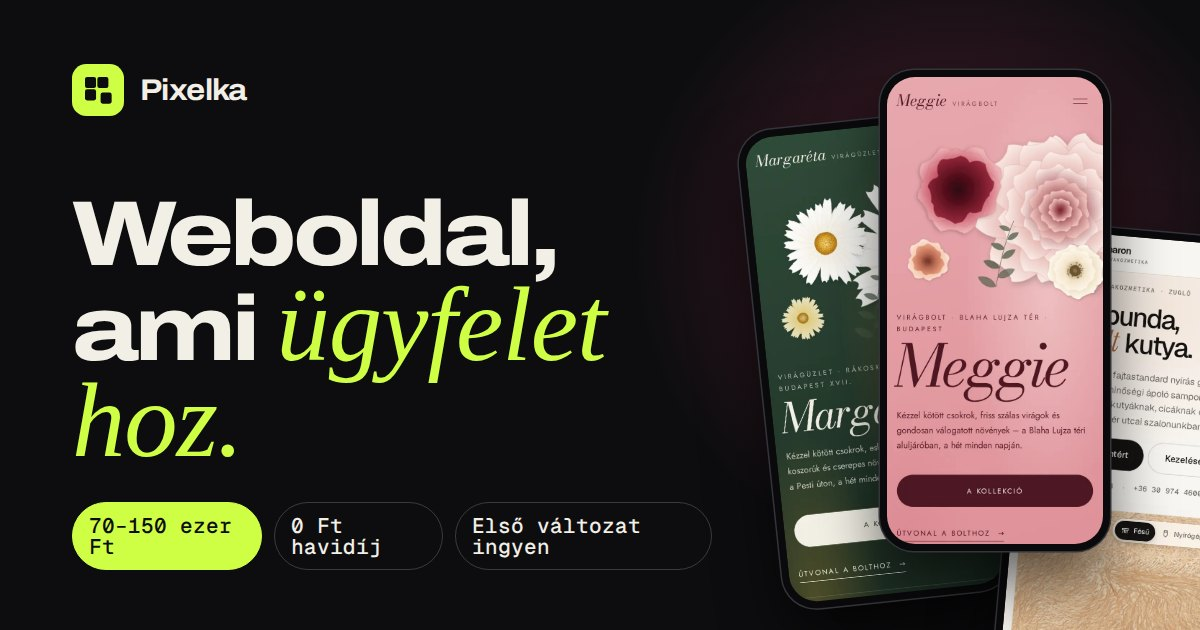
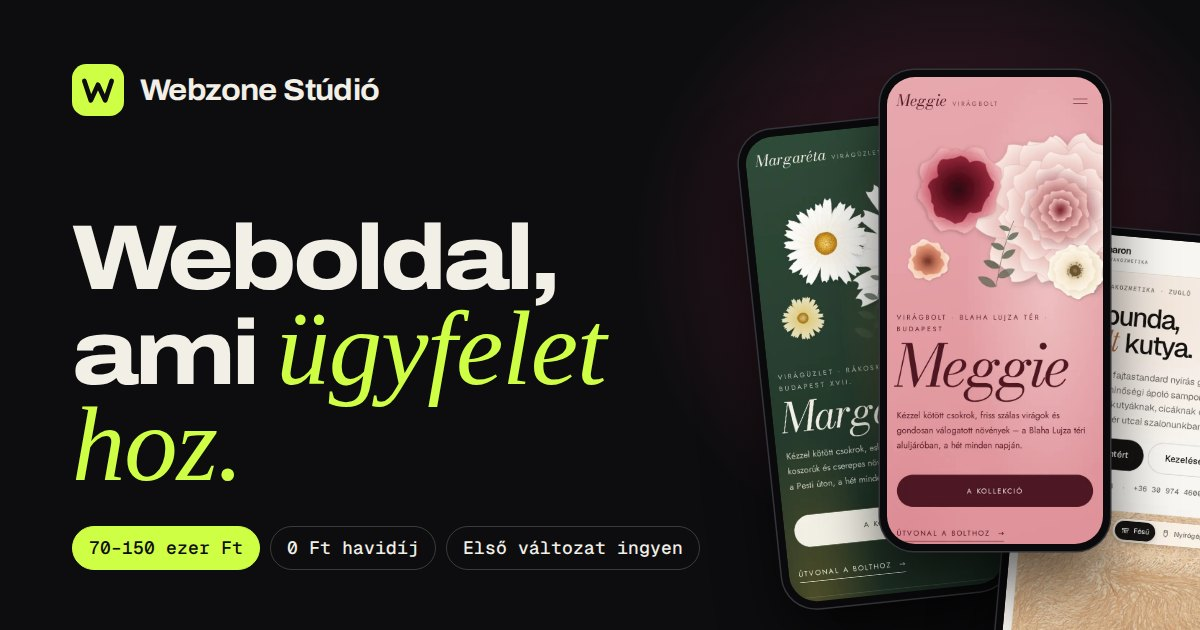
Új név: Webzone Stúdió (röviden Webzo)
- Név a fejlécben, menüben, láblécben, böngészőfülön, 404-oldalon,
  megosztási képen és a keresőknek szóló adatokban (alternateName: Webzo)
- A nagy lábléc-felirat és a domain a rövid változat: Webzo, webzo.hu
- Új logó: lime négyzetben vonalas „W”
- Megosztási kép: a címkék nem törnek két sorba

Claude-Session: https://claude.ai/code/session_01Gbe1suwyLoMRFVf5tUWnxh

Changed region(s): [[0.0617, 0.3016, 0.5858, 0.9048], [0.0617, 0.1206, 0.3392, 0.181]]

diff --git a/public/index.html b/public/index.html
@@ -3,35 +3,36 @@
 <head>
   <meta charset="utf-8">
   <meta name="viewport" content="width=device-width, initial-scale=1, viewport-fit=cover">
-  <title>Pixelka – Egyedi weboldal kisvállalkozásoknak, 70 000 Ft-tól</title>
+  <title>Webzone Stúdió – Egyedi weboldal kisvállalkozásoknak, 70 000 Ft-tól</title>
   <meta name="description" content="Egyedi tervezésű, telefonra szabott weboldalak kisvállalkozásoknak. Fix ár 70 000 és 150 000 Ft között, havidíj nélkül.">
   <meta name="theme-color" content="#0d0d0f">
   <meta name="color-scheme" content="dark">
-  <link rel="canonical" href="https://pixelka.hu/">
+  <link rel="canonical" href="https://webzo.hu/">
   <meta property="og:type" content="website">
   <meta property="og:locale" content="hu_HU">
-  <meta property="og:title" content="Weboldal, ami ügyfelet hoz – Pixelka">
+  <meta property="og:title" content="Weboldal, ami ügyfelet hoz – Webzone Stúdió">
   <meta property="og:description" content="Egyedi weboldal kisvállalkozásoknak. Fix ár 70–150 ezer Ft, nincs havidíj.">
-  <meta property="og:image" content="https://pixelka.hu/assets/og.jpg">
+  <meta property="og:image" content="https://webzo.hu/assets/og.jpg">
   <meta property="og:image:width" content="1200">
   <meta property="og:image:height" content="630">
-  <meta property="og:image:alt" content="Pixelka – Weboldal, ami ügyfelet hoz">
-  <meta property="og:url" content="https://pixelka.hu/">
+  <meta property="og:image:alt" content="Webzone Stúdió – Weboldal, ami ügyfelet hoz">
+  <meta property="og:url" content="https://webzo.hu/">
   <meta name="twitter:card" content="summary_large_image">
   <link rel="icon" href="/assets/favicon.svg" type="image/svg+xml">
   <link rel="apple-touch-icon" href="/assets/apple-touch-icon.png">
   <link rel="preload" href="/assets/fonts/archivo-latin-wdth-normal.woff2" as="font" type="font/woff2" crossorigin>
   <link rel="preload" href="/assets/fonts/geist-latin-wght-normal.woff2" as="font" type="font/woff2" crossorigin>
   <link rel="preload" href="/assets/work/meggie-mobile.webp" as="image" type="image/webp">
-  <link rel="stylesheet" href="/styles.css?v=4">
+  <link rel="stylesheet" href="/styles.css?v=5">
   <script type="application/ld+json">
   {
     "@context": "https://schema.org",
     "@type": "ProfessionalService",
-    "name": "Pixelka",
+    "name": "Webzone Stúdió",
+    "alternateName": "Webzo",
     "description": "Egyedi tervezésű, telefonra szabott weboldalak kisvállalkozásoknak, fix áron.",
-    "url": "https://pixelka.hu/",
-    "image": "https://pixelka.hu/assets/og.jpg",
+    "url": "https://webzo.hu/",
+    "image": "https://webzo.hu/assets/og.jpg",
     "email": "siposhunor1112@gmail.com",
     "priceRange": "70 000 – 150 000 Ft",
     "areaServed": { "@type": "Country", "name": "Magyarország" },
@@ -50,9 +51,9 @@
   <!-- ============ Fejléc ============ -->
   <header class="top" id="top">
     <div class="wrap top__inner">
-      <a class="logo" href="#" aria-label="Pixelka – az oldal teteje">
+      <a class="logo" href="#" aria-label="Webzone Stúdió – az oldal teteje">
         <svg class="logo__mark" aria-hidden="true"><use href="#mark"/></svg>
-        <span class="logo__word">Pixelka<span class="logo__sub">webkészítés</span></span>
+        <span class="logo__word">Webzone Stúdió<span class="logo__sub">webkészítés</span></span>
       </a>
       <nav class="nav" aria-label="Fő menü">
         <a href="#munkak">Munkák</a>
@@ -536,7 +537,7 @@
           </li>
         </ol>
         <div class="promise">
-          <svg class="promise__mark" viewBox="0 0 40 40" aria-hidden="true"><rect width="40" height="40" rx="11" fill="#0d0d0f"/><rect x="10" y="10" width="8.5" height="8.5" rx="1.6" fill="#cfff45"/><rect x="19.5" y="10" width="8.5" height="8.5" rx="1.6" fill="#cfff45"/><rect x="10" y="19.5" width="8.5" height="8.5" rx="1.6" fill="#cfff45"/><rect x="22" y="22" width="8.5" height="8.5" rx="1.6" fill="#cfff45"/></svg>
+          <svg class="promise__mark" viewBox="0 0 40 40" aria-hidden="true"><rect width="40" height="40" rx="11" fill="#0d0d0f"/><path d="M9.5 13l5 15 5.5-12 5.5 12 5-15" fill="none" stroke="#cfff45" stroke-width="3.6" stroke-linecap="round" stroke-linejoin="round"/></svg>
           <p><strong>Kockázatmentes kezdés:</strong> az első változatot díjmentesen elkészítem. Ha nem tetszik, nem tartozik semmivel.</p>
         </div>
       </div>
@@ -655,15 +656,15 @@
       <div class="foot__row">
         <a class="logo" href="#top">
           <svg class="logo__mark" aria-hidden="true"><use href="#mark"/></svg>
-          <span class="logo__word">Pixelka<span class="logo__sub">webkészítés</span></span>
+          <span class="logo__word">Webzone Stúdió<span class="logo__sub">webkészítés</span></span>
         </a>
         <nav class="foot__nav" aria-label="Lábléc menü">
           <a href="#munkak">Munkák</a><a href="#arak">Árak</a><a href="#folyamat">Folyamat</a><a href="#kerdesek">Kérdések</a><a href="#kapcsolat">Kapcsolat</a>
         </nav>
       </div>
-      <p class="foot__giant" aria-hidden="true">Pixelka</p>
+      <p class="foot__giant" aria-hidden="true">Webzo</p>
       <div class="foot__row foot__small">
-        <p>© <span data-year>2026</span> Pixelka · Webkészítés, Budapest</p>
+        <p>© <span data-year>2026</span> Webzone Stúdió · Webkészítés, Budapest</p>
         <p>Követőkódok és sütik nélkül.</p>
       </div>
       <!-- Impresszum: a script.js LEGAL részéből töltődik ki; amíg nincs kitöltve, nem jelenik meg -->
@@ -720,7 +721,7 @@
 
   <!-- Ikonok -->
   <svg width="0" height="0" style="position:absolute" aria-hidden="true">
-    <symbol id="mark" viewBox="0 0 40 40"><rect width="40" height="40" rx="11" fill="#cfff45"/><rect x="10" y="10" width="8.5" height="8.5" rx="1.6" fill="#0d0d0f"/><rect x="19.5" y="10" width="8.5" height="8.5" rx="1.6" fill="#0d0d0f"/><rect x="10" y="19.5" width="8.5" height="8.5" rx="1.6" fill="#0d0d0f"/><rect x="22" y="22" width="8.5" height="8.5" rx="1.6" fill="#0d0d0f"/></symbol>
+    <symbol id="mark" viewBox="0 0 40 40"><rect width="40" height="40" rx="11" fill="#cfff45"/><path d="M9.5 13l5 15 5.5-12 5.5 12 5-15" fill="none" stroke="#0d0d0f" stroke-width="3.6" stroke-linecap="round" stroke-linejoin="round"/></symbol>
     <symbol id="arrow" viewBox="0 0 24 24"><path d="M5 12h14M13 6l6 6-6 6" fill="none" stroke="currentColor" stroke-width="2" stroke-linecap="round" stroke-linejoin="round"/></symbol>
     <symbol id="pause" viewBox="0 0 24 24"><path d="M9 6v12M15 6v12" fill="none" stroke="currentColor" stroke-width="2.2" stroke-linecap="round"/></symbol>
     <symbol id="play" viewBox="0 0 24 24"><path d="M8 5.5v13l10.5-6.5z" fill="currentColor"/></symbol>
@@ -739,6 +740,6 @@
     <symbol id="i-key" viewBox="0 0 24 24"><g fill="none" stroke="currentColor" stroke-width="1.5" stroke-linecap="round"><circle cx="8" cy="15" r="4.5"/><path d="M11.2 11.8L20 3M16.5 6.5l2.5 2.5M14 9l2 2"/></g></symbol>
   </svg>
 
-  <script src="/script.js?v=4" defer></script>
+  <script src="/script.js?v=5" defer></script>
 </body>
 </html>

diff --git a/tools/images.js b/tools/images.js
@@ -21,7 +21,7 @@ const base = `
   html, body { width: 100%; height: 100%; }
   body { background: #0d0d0f; color: #f2efe7; overflow: hidden; position: relative; font-family: Display; }
 `;
-const mark = (bg, fg) => `<svg viewBox="0 0 40 40"><rect width="40" height="40" rx="11" fill="${bg}"/><rect x="10" y="10" width="8.5" height="8.5" rx="1.6" fill="${fg}"/><rect x="19.5" y="10" width="8.5" height="8.5" rx="1.6" fill="${fg}"/><rect x="10" y="19.5" width="8.5" height="8.5" rx="1.6" fill="${fg}"/><rect x="22" y="22" width="8.5" height="8.5" rx="1.6" fill="${fg}"/></svg>`;
+const mark = (bg, fg) => `<svg viewBox="0 0 40 40"><rect width="40" height="40" rx="11" fill="${bg}"/><path d="M9.5 13l5 15 5.5-12 5.5 12 5-15" fill="none" stroke="${fg}" stroke-width="3.6" stroke-linecap="round" stroke-linejoin="round"/></svg>`;
 
 const phone = (img, x, y, r) => `<div class="ph" style="left:${x}px;top:${y}px;transform:rotate(${r}deg)"><div><img src="${shot(img)}"></div></div>`;
 const og = `<style>${base}
@@ -31,7 +31,7 @@ const og = `<style>${base}
   .top svg { width: 52px; height: 52px; }
   h1 { margin-top: auto; font-weight: 780; font-stretch: 118%; font-size: 92px; line-height: .9; letter-spacing: -.045em; }
   h1 em { font-family: Serif; font-style: italic; font-weight: 400; font-stretch: 100%; font-size: 1.16em; letter-spacing: -.01em; color: #cfff45; }
-  .bottom { margin-top: 34px; display: flex; gap: 12px; font: 500 21px/1 Mono; }
+  .bottom { margin-top: 34px; display: flex; gap: 10px; font: 500 18px/1 Mono; white-space: nowrap; }
   .bottom span { padding: 12px 16px; border-radius: 999px; border: 1px solid rgba(242,239,231,.2); }
   .bottom span:first-child { background: #cfff45; color: #0d0d0f; border-color: #cfff45; }
   .ph { position: absolute; width: 230px; padding: 7px; border-radius: 34px; background: #0a0a0c; box-shadow: 0 0 0 1.5px #34343b, 0 30px 60px rgba(0,0,0,.6); }
@@ -43,13 +43,13 @@ ${phone("margareta-mobile.webp", 760, 120, -6)}
 ${phone("molly-mobile.webp", 1010, 230, 5)}
 ${phone("meggie-mobile.webp", 880, 70, 0)}
 <div class="wrap">
-  <div class="top">${mark("#cfff45", "#0d0d0f")}Pixelka</div>
+  <div class="top">${mark("#cfff45", "#0d0d0f")}Webzone Stúdió</div>
   <h1>Weboldal, ami <em>ügyfelet hoz.</em></h1>
   <div class="bottom"><span>70–150 ezer Ft</span><span>0 Ft havidíj</span><span>Első változat ingyen</span></div>
 </div>`;
 
 const icon = `<style>${base} body { background: #cfff45; display: grid; place-items: center; } svg { width: 100%; height: 100%; }</style>
-<svg viewBox="0 0 40 40"><rect width="40" height="40" fill="#cfff45"/><rect x="10" y="10" width="8.5" height="8.5" rx="1.6" fill="#0d0d0f"/><rect x="19.5" y="10" width="8.5" height="8.5" rx="1.6" fill="#0d0d0f"/><rect x="10" y="19.5" width="8.5" height="8.5" rx="1.6" fill="#0d0d0f"/><rect x="22" y="22" width="8.5" height="8.5" rx="1.6" fill="#0d0d0f"/></svg>`;
+<svg viewBox="0 0 40 40"><rect width="40" height="40" fill="#cfff45"/><path d="M9.5 13l5 15 5.5-12 5.5 12 5-15" fill="none" stroke="#0d0d0f" stroke-width="3.6" stroke-linecap="round" stroke-linejoin="round"/></svg>`;
 
 (async () => {
   const browser = await chromium.launch();

diff --git a/public/404.html b/public/404.html
@@ -3,17 +3,17 @@
 <head>
   <meta charset="utf-8">
   <meta name="viewport" content="width=device-width, initial-scale=1, viewport-fit=cover">
-  <title>Nincs ilyen oldal – Pixelka</title>
+  <title>Nincs ilyen oldal – Webzone Stúdió</title>
   <meta name="robots" content="noindex">
   <meta name="theme-color" content="#0d0d0f">
   <link rel="icon" href="/assets/favicon.svg" type="image/svg+xml">
-  <link rel="stylesheet" href="/styles.css?v=4">
+  <link rel="stylesheet" href="/styles.css?v=5">
 </head>
 <body class="notfound">
   <main class="wrap notfound__inner">
     <a class="logo" href="/">
-      <svg class="logo__mark" viewBox="0 0 40 40" aria-hidden="true"><rect width="40" height="40" rx="11" fill="#cfff45"/><rect x="10" y="10" width="8.5" height="8.5" rx="1.6" fill="#0d0d0f"/><rect x="19.5" y="10" width="8.5" height="8.5" rx="1.6" fill="#0d0d0f"/><rect x="10" y="19.5" width="8.5" height="8.5" rx="1.6" fill="#0d0d0f"/><rect x="22" y="22" width="8.5" height="8.5" rx="1.6" fill="#0d0d0f"/></svg>
-      <span class="logo__word">Pixelka<span class="logo__sub">webkészítés</span></span>
+      <svg class="logo__mark" viewBox="0 0 40 40" aria-hidden="true"><rect width="40" height="40" rx="11" fill="#cfff45"/><path d="M9.5 13l5 15 5.5-12 5.5 12 5-15" fill="none" stroke="#0d0d0f" stroke-width="3.6" stroke-linecap="round" stroke-linejoin="round"/></svg>
+      <span class="logo__word">Webzone Stúdió<span class="logo__sub">webkészítés</span></span>
     </a>
     <p class="notfound__code" aria-hidden="true">404</p>
     <h1 class="h2">Ez az oldal <em>még nem készült el.</em></h1>

diff --git a/public/script.js b/public/script.js
@@ -1,11 +1,11 @@
 // =========================================================================
-// Pixelka – webkészítés
+// Webzone Stúdió (Webzo) – webkészítés
 // Itt az elérhetőségek (SITE), a csomagok (PRESETS) és az oldal minden mozgása.
 // A munkák adatai az index.html-ben vannak (<article class="card">), innen olvassuk ki őket.
 // =========================================================================
 
 const SITE = {
-  name: "Pixelka",
+  name: "Webzone Stúdió",
   email: "siposhunor1112@gmail.com",
   phone: null,                 // pl. "+36 30 123 4567" – ha megadja, megjelenik a Hívás gomb is
   status: "Most is vállalok új munkát", // a nyitókép fölötti zöld pöttyös felirat; null = elrejti
@@ -14,7 +14,7 @@ const SITE = {
 // Impresszum (a magyar jogszabályok szerint kötelező) – töltse ki, és megjelenik a láblécben.
 // Amíg a "name" üres, az impresszum nem látszik.
 const LEGAL = {
-  name: "",            // pl. "Pixelka – Minta Péter egyéni vállalkozó" vagy a cég neve
+  name: "",            // pl. "Webzone Stúdió – Minta Péter egyéni vállalkozó" vagy a cég neve
   address: "",         // székhely
   taxNumber: "",       // adószám
   registry: "",        // nyilvántartási szám / cégjegyzékszám

diff --git a/public/styles.css b/public/styles.css
@@ -1,5 +1,5 @@
 /* =========================================================================
-   Pixelka – webkészítés
+   Webzone Stúdió (Webzo) – webkészítés
    Színek, betűk, méretek: a :root részben. Minden más ebből számol.
    ========================================================================= */
 

diff --git a/README.md b/README.md
@@ -1,4 +1,4 @@
-# Pixelka – webkészítés (saját weboldal)
+# Webzone Stúdió (Webzo) – webkészítés (saját weboldal)
 
 Egyoldalas bemutatkozó és értékesítő oldal: egyedi weboldalak kisvállalkozásoknak, fix áron (70 000 – 150 000 Ft).
 Nincs szükség build lépésre: a `public/` mappa bármilyen statikus tárhelyen kiszolgálható (Cloudflare Workers, Netlify, GitHub Pages) –
@@ -7,14 +7,14 @@ ugyanúgy, mint az ügyféloldalak.
 ## ⚠ Élesítés előtt – ezeket nézd át
 
 1. **E-mail cím** – az oldalon most a `siposhunor1112@gmail.com` szerepel, ami a nevedet tartalmazza. Ha megvan a domain,
-   érdemes egy céges címet létrehozni (pl. `hello@pixelka.hu`), és átírni a `public/script.js` `SITE.email` sorában,
+   érdemes egy céges címet létrehozni (pl. `hello@webzo.hu`), és átírni a `public/script.js` `SITE.email` sorában,
    az `index.html`-ben (Kapcsolat, `application/ld+json`) is.
 2. **Impresszum** – a magyar jogszabályok szerint egy szolgáltatást kínáló weboldalon kötelező (szolgáltató neve, székhely,
    adószám, nyilvántartási szám, elérhetőség, tárhelyszolgáltató). Töltsd ki a `public/script.js` `LEGAL` részét: amint a
    `name` nem üres, a láblécben megjelenik egy lenyitható „Impresszum”. A tárhelyszolgáltató (Cloudflare) adatai már benne vannak.
 3. **Telefonszám** – `public/script.js`, `SITE.phone` (most `null`, ezért nem látszik). Kisvállalkozók szívesebben telefonálnak:
    ha megadod, megjelenik a Kapcsolatnál és telefonon az alsó sávban is (Hívás gomb).
-4. **Domain** – az oldal a `https://pixelka.hu/` címet feltételezi (foglald le a domain.hu-n, ha még szabad). Ha más lesz, írd át itt:
+4. **Domain** – az oldal a `https://webzo.hu/` címet feltételezi (foglald le a domain.hu-n, ha még szabad; másik lehetőség: webzonestudio.hu). Ha más lesz, írd át itt:
    `public/index.html` (`og:image`, `og:url`, `canonical`, `application/ld+json`), `public/robots.txt`, `public/sitemap.xml`.
 5. **A Meggie Virágbolt élő címe** – az `index.html`-ben a kiemelt munkánál (`<article class="card feature" data-id="meggie" …>`)
    írd a `data-url=""`-be az élő oldal címét. Ekkor megjelenik az „Élő oldal” gomb, a böngészőablak tetején pedig a valódi cím.
@@ -54,8 +54,8 @@ ugyanúgy, mint az ügyféloldalak.
 - Betűk saját tárhelyről (SIL Open Font License): **Archivo** széles, vastag változata (címek), **Instrument Serif** dőlt
   (a kiemelt szavak, pl. „*ügyfelet hoz.*”), **Geist** (szöveg) és **Geist Mono** (címkék, számok).
   Az Archivo le van karcsúsítva (csak a használt vastagságok és a magyar ékezetek): 176 KB helyett 50 KB
-- Név: **Pixelka**. Logó: lime négyzet, benne négy pixel – három rendezett sorban, a negyedik kissé kilép a sorból
-  („egyedi, nem sablon”). A jel az `index.html` alján (`#mark`) és az `assets/favicon.svg`-ben van
+- Név: **Webzone Stúdió**, rövid változata **Webzo** (domain, nagy lábléc-felirat). Logó: lime négyzetben egy vonalas „W”.
+  A jel az `index.html` alján (`#mark`), a `404.html`-ben és az `assets/favicon.svg`-ben van
 - Megszólítás: magázó, egyszerű és szakmai hangnem, szakszavak nélkül
 
 ## Szekciók – és miért ezek
